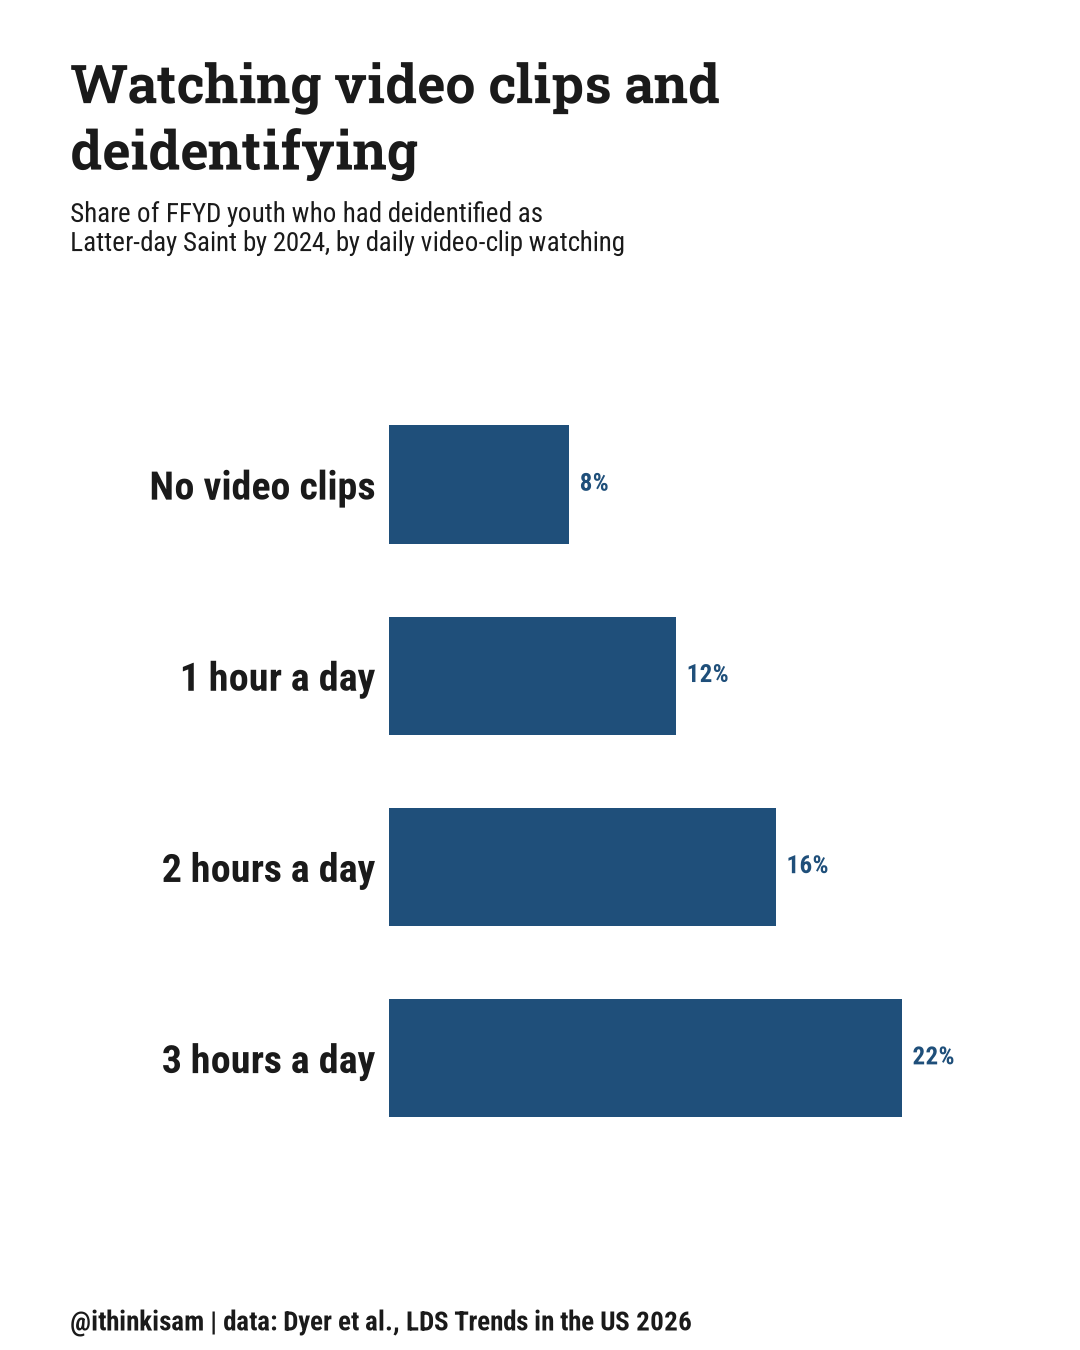
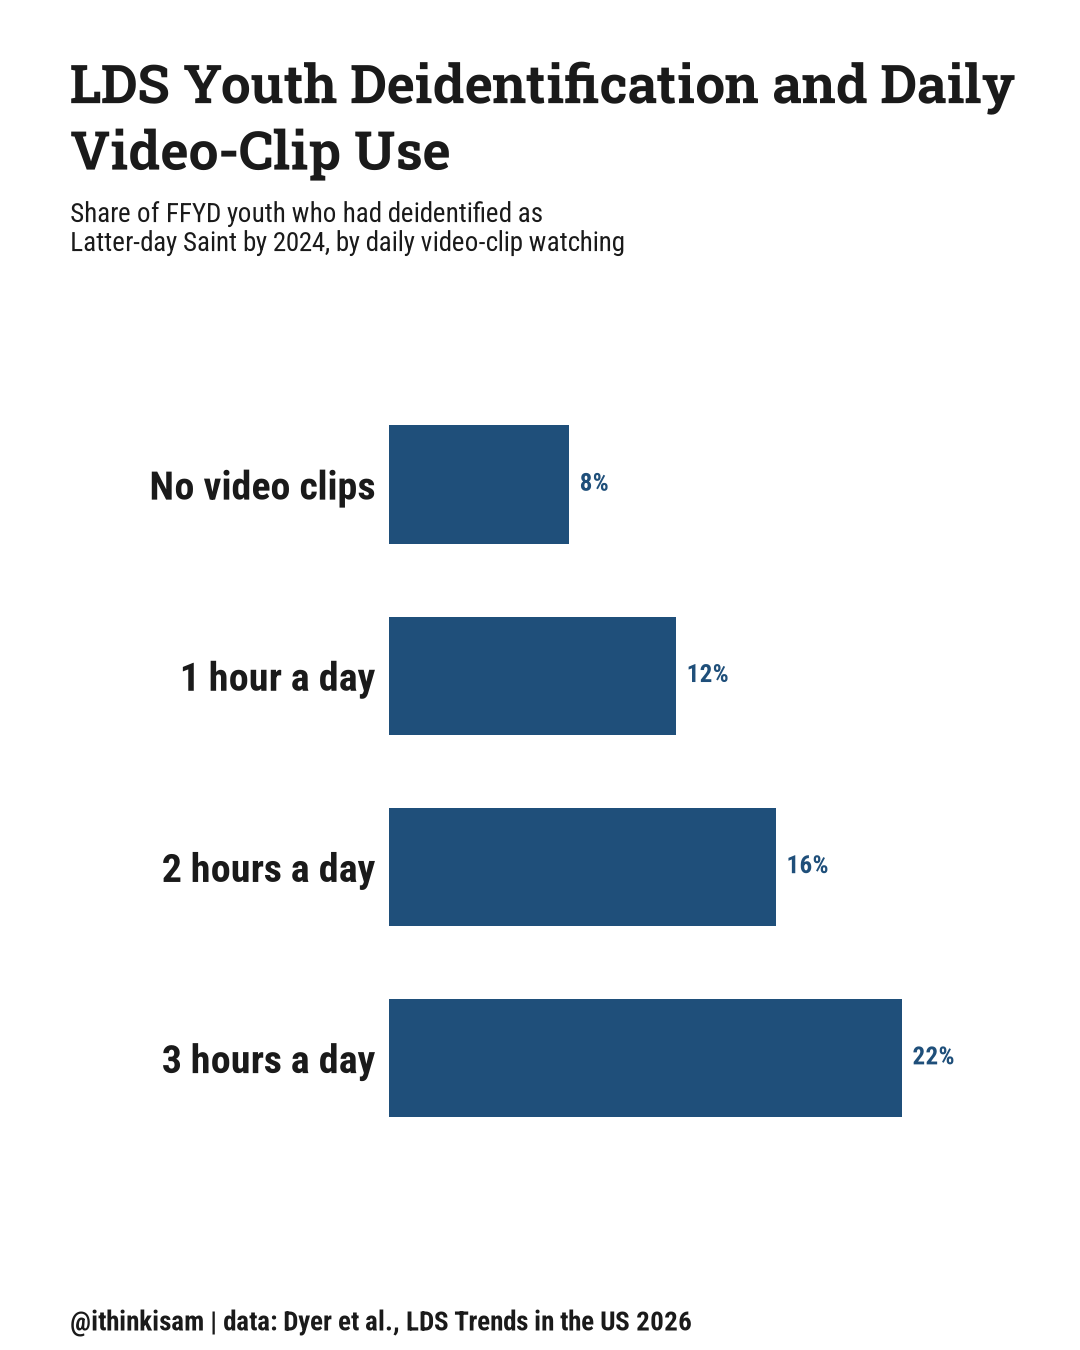
Retitle video-clip-watching study graphic
"LDS Youth Deidentification and Daily Video-Clip Use" replaces the
generic working title, on both the rendered PNG and the study-graphics
registry entry.

Changed region(s): [[0.0611, 0.0311, 0.9472, 0.1556]]

diff --git a/src/lib/study-graphics.ts b/src/lib/study-graphics.ts
@@ -180,7 +180,7 @@ function dyerVideoClipWatchingGraphic(): Graphic {
   const { rows } = dyerLdsTrendsData.charts["video-clip-watching"];
   const alt = rows.map((r) => `${r.label} ${r.pct}%`).join(", ");
   return {
-    title: "Watching video clips and deidentifying",
+    title: "LDS Youth Deidentification and Daily Video-Clip Use",
     description:
       "Share of FFYD panel youth who had deidentified as Latter-day Saint by 2024, by hours of daily video-clip watching in 2020.",
     imageSrc:

diff --git a/scripts/study-graphics/dyer-lds-trends-us-byu-studies-2026/render_charts.py b/scripts/study-graphics/dyer-lds-trends-us-byu-studies-2026/render_charts.py
@@ -55,7 +55,7 @@ def main() -> None:
         # A single ordered trend, not a highlight-vs-context comparison -
         # every bar carries the same weight.
         highlight_rows=None,
-        title="Watching video clips and deidentifying",
+        title="LDS Youth Deidentification and Daily Video-Clip Use",
         subtitle="Share of FFYD youth who had deidentified as\nLatter-day Saint by 2024, by daily video-clip watching",
         caption_paragraphs=[],
         handle=HANDLE,
